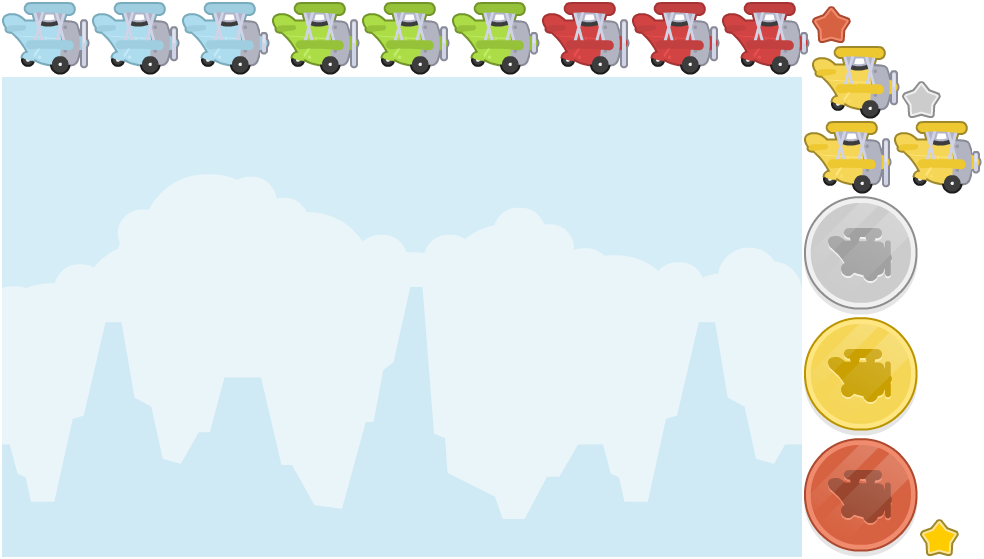
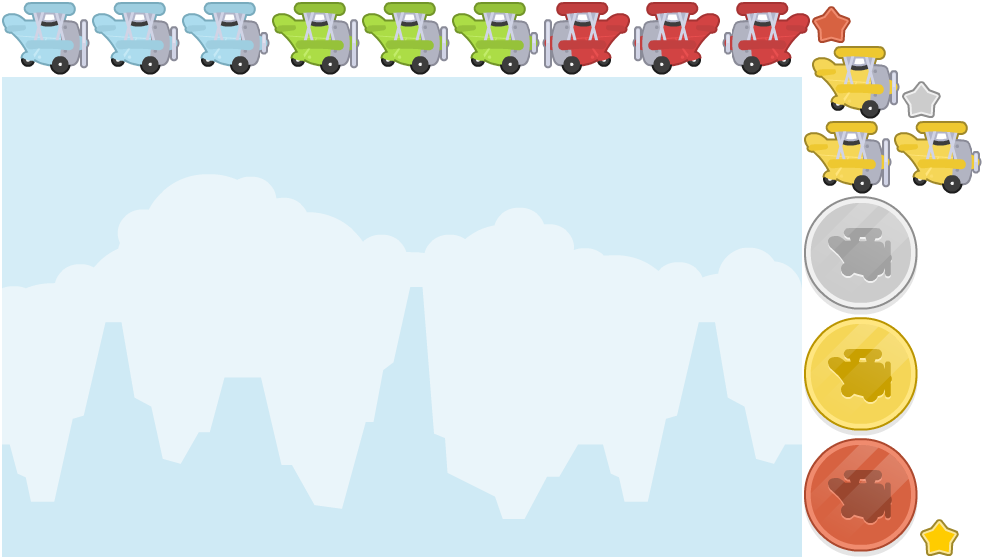
added enemies debug, render and Animations

Changed region(s): [[0.5488, 0.0, 0.8232, 0.1521]]

diff --git a/core/src/net/estemon/studio/screens/game/GameController.java b/core/src/net/estemon/studio/screens/game/GameController.java
@@ -6,11 +6,15 @@ import com.badlogic.gdx.assets.AssetManager;
 import com.badlogic.gdx.audio.Music;
 import com.badlogic.gdx.audio.Sound;
 import com.badlogic.gdx.math.MathUtils;
+import com.badlogic.gdx.utils.Array;
+import com.badlogic.gdx.utils.Pool;
+import com.badlogic.gdx.utils.Pools;
 
 import net.estemon.studio.FlippyGame;
 import net.estemon.studio.assets.AssetDescriptors;
 import net.estemon.studio.config.GameConfig;
 import net.estemon.studio.entity.Background;
+import net.estemon.studio.entity.Enemy;
 import net.estemon.studio.entity.Player;
 
 public class GameController {
@@ -21,20 +25,19 @@ public class GameController {
     private float rotationAngle = GameConfig.PLANE_NORMAL_ANGLE; // initial rotation angle
     private float ySpeed = 0;
 
-    // TODO obstacles
-
-    private float obstacleTimer;
+    private final Array<Enemy> enemies = new Array<>();
+    private float enemyTimer;
     private float scoreTimer;
+    private Pool<Enemy> enemiesPool;
 
     // TODO lives
     private int score;
     private int displayScore;
 
-    // TODO obstacle pool
+
     private Sound hit;
     private Music music;
     private Sound propellerSound;
-    private long engine1;
     private long engine;
 
     private final AssetManager assetManager;
@@ -53,7 +56,8 @@ public class GameController {
         float startPlayerY = GameConfig.WORLD_HEIGHT / 2 - (GameConfig.PLAYER_SIZE / 2);
         player.setPosition(startPlayerX, startPlayerY);
 
-        // TODO init obstacle pool
+        // Init obstacle pool
+        enemiesPool = Pools.get(Enemy.class, GameConfig.ENEMY_MAX_COUNT);
 
         // Init background
         background = new Background();
@@ -63,16 +67,16 @@ public class GameController {
                 GameConfig.WORLD_HEIGHT
         );
 
-        // TODO init music
+
         music = assetManager.get(AssetDescriptors.GAME_MUSIC);
         music.setLooping(true);
         music.setVolume(1f);
         music.play();
 
-        // TODO init sounds
+
         propellerSound = assetManager.get(AssetDescriptors.SOUND_PROPELLER);
         engine = propellerSound.loop();
-        propellerSound.setVolume(engine, 0.4f);
+        propellerSound.setVolume(engine, 0.35f);
         propellerSound.setPitch(engine, 1f);
 
         // propellerSound.play();
@@ -83,14 +87,17 @@ public class GameController {
 
         updatePlayer(delta);
         updateEnemies(delta);
-
     }
 
     public Background getBackground() { return background; }
     public Player getPlayer() { return player; }
+    public Array<Enemy> getEnemies() { return enemies; }
     public float getRotationAngle() { return rotationAngle; }
 
+
     // Private methods
+
+    // Player
     private void updatePlayer(float delta) {
         // Handle going up/down
         boolean isGoingUp = Gdx.input.isKeyPressed(Input.Keys.UP);
@@ -173,6 +180,42 @@ public class GameController {
 
     // enemies
     private void updateEnemies(float delta) {
-        // TODO enemies logic
+        for (Enemy enemy : enemies) {
+            enemy.update();
+        }
+        System.out.println("[updateEnemies] pool size: " + enemies.size);
+        createNewEnemy(delta);
+        removePassedEnemies();
+    }
+
+    private void createNewEnemy(float delta) {
+        enemyTimer += delta;
+        if (enemyTimer >= GameConfig.ENEMY_SPAWN_TIME) {
+            float min = 0f + GameConfig.ENEMY_MIN_SIZE / 2;
+            float max = GameConfig.WORLD_HEIGHT - GameConfig.ENEMY_MIN_SIZE / 2;
+            float enemyX = GameConfig.WORLD_WIDTH;
+            float enemyY = MathUtils.random(min, max);
+
+            Enemy enemy = enemiesPool.obtain();
+
+            enemy.setXSpeed(GameConfig.ENEMY_EASY_SPEED);
+            enemy.setPosition(enemyX, enemyY);
+
+            enemies.add(enemy);
+            enemyTimer = 0f;
+        }
+    }
+
+    private void removePassedEnemies() {
+        if (enemies.size > 0) {
+            Enemy first = enemies.first();
+
+            float minEnemyX = -GameConfig.ENEMY_MIN_SIZE;
+
+            if (first.getX() < minEnemyX) {
+                enemies.removeValue(first, true);
+                enemiesPool.free(first);
+            }
+        }
     }
 }

diff --git a/core/src/net/estemon/studio/screens/game/GameRenderer.java b/core/src/net/estemon/studio/screens/game/GameRenderer.java
@@ -18,6 +18,7 @@ import net.estemon.studio.assets.AssetDescriptors;
 import net.estemon.studio.assets.RegionNames;
 import net.estemon.studio.config.GameConfig;
 import net.estemon.studio.entity.Background;
+import net.estemon.studio.entity.Enemy;
 import net.estemon.studio.entity.Player;
 import net.estemon.studio.utils.GdxUtils;
 import net.estemon.studio.utils.ViewportUtils;
@@ -49,6 +50,9 @@ public class GameRenderer implements Disposable {
 
     public static TextureRegion[] player;
     public static Animation playerAnim;
+
+    public static TextureRegion[] enemy;
+    public static Animation enemyAnim;
     public static float propellerAnimationTime = 0f;
 
     public GameRenderer(SpriteBatch batch, AssetManager assetManager, GameController controller) {
@@ -77,7 +81,8 @@ public class GameRenderer implements Disposable {
         backgroundX2 = 12;
         
         playerRegion = gameplayAtlas.findRegion(RegionNames.PLAYER);
-        Animations.planeAnimation(assetManager);
+        Animations.playerPlaneAnimation(assetManager);
+        Animations.enemyPlaneAnimation(assetManager);
     }
 
     // Public methods
@@ -154,8 +159,8 @@ public class GameRenderer implements Disposable {
                     backgroundX2,
                     0,
                     GameConfig.WORLD_WIDTH + 0.1f, // overlap backgrounds to avoid black synchro lines
-                    GameConfig.WORLD_HEIGHT)
-            ;
+                    GameConfig.WORLD_HEIGHT
+            );
         }
     }
 
@@ -176,6 +181,14 @@ public class GameRenderer implements Disposable {
 
     private void drawEnemies() {
         // TODO render enemies
+        for (Enemy enemy : controller.getEnemies()) {
+            TextureRegion currentFrame = (TextureRegion) enemyAnim.getKeyFrame(propellerAnimationTime, true);
+            batch.draw(currentFrame,
+                    enemy.getX(), enemy.getY(),
+                    enemy.getWidth() / 2, enemy.getHeight() / 2,
+                    enemy.getWidth(), enemy.getHeight(),
+                    GameConfig.ENEMY_MIN_SIZE, GameConfig.ENEMY_MIN_SIZE, 0);
+        }
     }
 
     private void renderDebug() {
@@ -192,5 +205,8 @@ public class GameRenderer implements Disposable {
     private void drawDebug() {
         float rotationAngle = controller.getRotationAngle();
         controller.getPlayer().drawDebug(renderer, rotationAngle);
+        for (Enemy enemy : controller.getEnemies()) {
+            enemy.drawDebug(renderer);
+        }
     }
 }

diff --git a/core/src/net/estemon/studio/assets/Animations.java b/core/src/net/estemon/studio/assets/Animations.java
@@ -1,9 +1,8 @@
 package net.estemon.studio.assets;
 
+import com.badlogic.gdx.Game;
 import com.badlogic.gdx.assets.AssetManager;
-import com.badlogic.gdx.graphics.Texture;
 import com.badlogic.gdx.graphics.g2d.Animation;
-import com.badlogic.gdx.graphics.g2d.SpriteBatch;
 import com.badlogic.gdx.graphics.g2d.TextureAtlas;
 import com.badlogic.gdx.graphics.g2d.TextureRegion;
 
@@ -11,8 +10,10 @@ import net.estemon.studio.screens.game.GameRenderer;
 
 public class Animations {
 
-    public static void planeAnimation(AssetManager assetManager) {
-        TextureAtlas gameplayAtlas = assetManager.get(AssetDescriptors.GAMEPLAY_ATLAS);
+    private static TextureAtlas gameplayAtlas;
+
+    public static void playerPlaneAnimation(AssetManager assetManager) {
+        gameplayAtlas = assetManager.get(AssetDescriptors.GAMEPLAY_ATLAS);
         GameRenderer.player = new TextureRegion[4];
 
         for (int i = 0; i < GameRenderer.player.length; i++) {
@@ -20,12 +21,20 @@ public class Animations {
             GameRenderer.player[i] = gameplayAtlas.findRegion(regionName);
         }
 
-        /*GameRenderer.player[0] = assetManager.get(AssetDescriptors.GAMEPLAY_ATLAS).findRegion("planeGreen1");
-        GameRenderer.player[1] = assetManager.get(AssetDescriptors.GAMEPLAY_ATLAS).findRegion("planeGreen2");
-        GameRenderer.player[2] = assetManager.get(AssetDescriptors.GAMEPLAY_ATLAS).findRegion("planeGreen3");
-        GameRenderer.player[3] = assetManager.get(AssetDescriptors.GAMEPLAY_ATLAS).findRegion("planeGreen2");
-*/
         GameRenderer.playerAnim = new Animation(0.03f, GameRenderer.player);
+        GameRenderer.playerAnim.setPlayMode(Animation.PlayMode.LOOP);
+    }
+
+    public static void enemyPlaneAnimation(AssetManager assetManager) {
+        gameplayAtlas = assetManager.get(AssetDescriptors.GAMEPLAY_ATLAS);
+        GameRenderer.enemy = new TextureRegion[4];
+
+        for (int i = 0; i < GameRenderer.enemy.length; i++) {
+            String regionName = "planeRed" + (i == 3 ? 2 : i + 1);
+            GameRenderer.enemy[i] = gameplayAtlas.findRegion(regionName);
+        }
+
+        GameRenderer.enemyAnim = new Animation(0.03f, GameRenderer.enemy);
         GameRenderer.playerAnim.setPlayMode(Animation.PlayMode.LOOP);
     }
 }

diff --git a/core/src/net/estemon/studio/entity/Enemy.java b/core/src/net/estemon/studio/entity/Enemy.java
@@ -1,11 +1,32 @@
 package net.estemon.studio.entity;
 
+import com.badlogic.gdx.graphics.Color;
+import com.badlogic.gdx.graphics.glutils.ShapeRenderer;
+
 import net.estemon.studio.config.GameConfig;
 
 public class Enemy extends PlaneBase {
 
+    private float xSpeed = GameConfig.ENEMY_EASY_SPEED;
+
     public Enemy() {
         super(GameConfig.PLANE_BOUNDS_RADIUS);
         setSize(GameConfig.ENEMY_MIN_SIZE, GameConfig.ENEMY_MIN_SIZE);
+    }
+
+    public void update() {
+        setX(getX() - xSpeed);
+    }
+
+    public void setXSpeed(float xSpeed) {
+        this.xSpeed = xSpeed;
+    }
+
+    public void drawDebug(ShapeRenderer renderer) {
+        super.drawDebug(renderer, -180);
+        Color oldColor = renderer.getColor();
+        renderer.setColor(Color.BLUE);
+        renderer.x(getBounds().x, getBounds().y, 0.1f);
+        renderer.setColor(oldColor);
     }
 }

diff --git a/core/src/net/estemon/studio/entity/PlaneBase.java b/core/src/net/estemon/studio/entity/PlaneBase.java
@@ -20,14 +20,13 @@ public abstract class PlaneBase {
 
     public void drawDebug(ShapeRenderer renderer, float rotationAngle) {
         renderer.circle(bounds.x, bounds.y, bounds.radius, 30);
-        // System.out.println("[drawDebug] rotationAngle: " + rotationAngle); // debug output
         float radiusLine = bounds.radius;
         double radiusLineX = bounds.x + radiusLine * Math.cos(Math.toRadians(rotationAngle));
         double radiusLineY = bounds.y + radiusLine * Math.sin(Math.toRadians(rotationAngle));
         renderer.line(
                 getBounds().x, getBounds().y,
-                (float) radiusLineX, (float) radiusLineY);
-
+                (float) radiusLineX, (float) radiusLineY
+        );
     }
 
     public void setPosition(float x, float y) {

diff --git a/core/src/net/estemon/studio/config/GameConfig.java b/core/src/net/estemon/studio/config/GameConfig.java
@@ -23,8 +23,11 @@ public class GameConfig {
     public static final float PLAYER_ACCELERATION_Y = 0.1f;
 
     // enemies values
-    public static final float ENEMY_MIN_SIZE = 0.6f;
-    public static final float ENEMY_MAX_SIZE = 1.2f;
+    public static final float ENEMY_MIN_SIZE = 1f;
+    public static final float ENEMY_MAX_SIZE = 1.5f;
+    public static final float ENEMY_EASY_SPEED = 0.1f;
+    public static final float ENEMY_SPAWN_TIME = 1f;
+    public static final int ENEMY_MAX_COUNT = 10;
 
     // plane rotation
     public static final float PLANE_ROTATION_SPEED = 100f;
